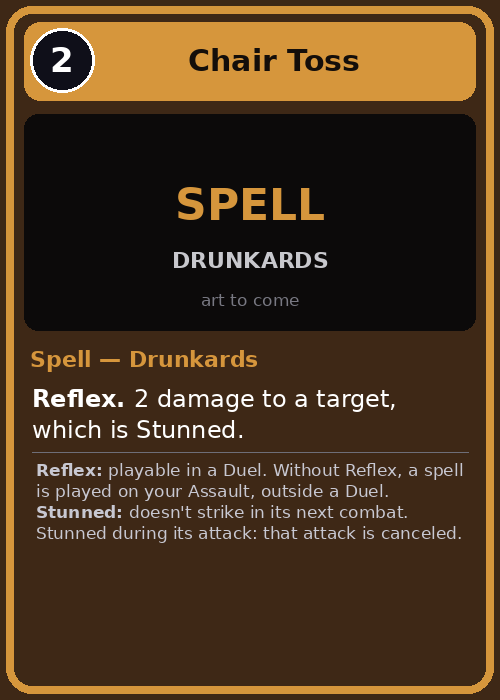
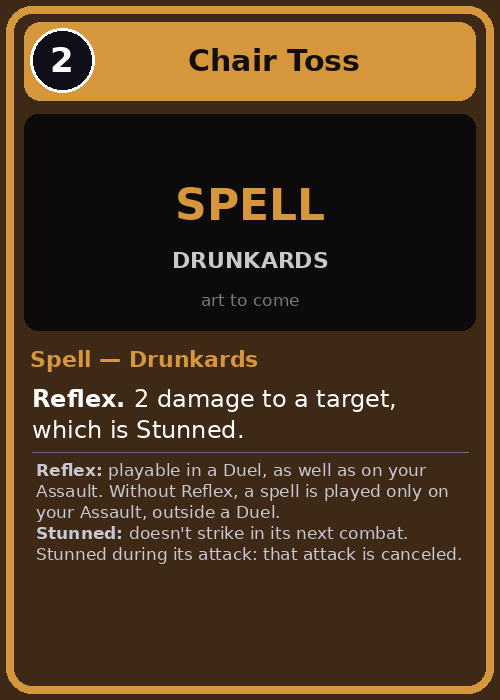
Réflexe : jouable en Duel, en plus de ton Assaut
Claude-Session: https://claude.ai/code/session_012tTQJxUJeP1nyMXvmyxXzL

Changed region(s): [[0.06, 0.66, 0.93, 0.81]]

diff --git a/livret/en/livret.html b/livret/en/livret.html
@@ -234,7 +234,7 @@ a{color:var(--accent)}
   <h3>Spells</h3>
   <ul>
     <li>A spell is cast in a room where you have a <strong>unit</strong>; your Terrain doesn't count. With <span class="kw">Reach</span>: also an adjacent room.</li>
-    <li>Without Reflex, a spell is played during your Assault, outside a Duel. With Reflex, it is played in a Duel, even on your opponent's turn.</li>
+    <li>Without Reflex, a spell is played during your Assault, outside a Duel. With Reflex, it can also be played in a Duel, even on your opponent's turn.</li>
   </ul>
 </section>
 
@@ -356,7 +356,7 @@ a{color:var(--accent)}
     <tr><td>Revealed</td><td class="wrap1">When its Bluff card is flipped.</td></tr>
     <tr><td>Withdrawal</td><td class="wrap1">During your Withdrawal phase.</td></tr>
     <tr><td>Swift</td><td class="wrap1">After its combat during your Assault, changes rooms (outside the limit) and attacks once more.</td></tr>
-    <tr><td>Reflex</td><td class="wrap1">Playable in a Duel.</td></tr>
+    <tr><td>Reflex</td><td class="wrap1">Playable in a Duel, as well as during your Assault.</td></tr>
     <tr><td>Reach</td><td class="wrap1">Attacks a room adjacent to its Expedition. The monster doesn't strike back; the unit is not present in the room (no Brawl, no Stronghold, no Fall back). Respects Protector.</td></tr>
     <tr><td>Protector</td><td class="wrap1">Attacks (units and monsters) against your units or your Terrain in its room must target it. Spells and effects target freely. Protects even when Stunned; in a raid, goes before the Guardian.</td></tr>
     <tr><td>Reinforce</td><td class="wrap1">When the unit is recalled to the Camp during a raid.</td></tr>

diff --git a/livret/livret.html b/livret/livret.html
@@ -234,7 +234,7 @@ a{color:var(--accent)}
   <h3>Les sorts</h3>
   <ul>
     <li>Un sort se lance dans une salle où tu as une <strong>unité</strong> ; ton Terrain ne compte pas. Avec <span class="kw">Portée</span> : aussi une salle voisine.</li>
-    <li>Sans Réflexe, un sort se joue à ton Assaut, hors Duel. Avec Réflexe, il se joue en Duel, même au tour adverse.</li>
+    <li>Sans Réflexe, un sort se joue à ton Assaut, hors Duel. Avec Réflexe, il se joue aussi en Duel, même au tour adverse.</li>
   </ul>
 </section>
 
@@ -356,7 +356,7 @@ a{color:var(--accent)}
     <tr><td>Révélé</td><td class="wrap1">Quand sa carte Bluff est retournée.</td></tr>
     <tr><td>Retrait</td><td class="wrap1">À ta phase de Retrait.</td></tr>
     <tr><td>Rapide</td><td class="wrap1">Après son combat à ton Assaut, change de salle (hors limite) et attaque 1 fois de plus.</td></tr>
-    <tr><td>Réflexe</td><td class="wrap1">Jouable en Duel.</td></tr>
+    <tr><td>Réflexe</td><td class="wrap1">Jouable en Duel, en plus de ton Assaut.</td></tr>
     <tr><td>Portée</td><td class="wrap1">Attaque une salle voisine de son Expédition. Le monstre ne riposte pas ; l'unité n'est pas présente dans la salle (ni Mêlée, ni Fief, ni Repli). Respecte Protecteur.</td></tr>
     <tr><td>Protecteur</td><td class="wrap1">Les attaques (unités et monstres) contre tes unités ou ton Terrain de sa salle doivent le viser. Sorts et effets ciblent librement. Protège même Sonné ; au raid, passe avant le Gardien.</td></tr>
     <tr><td>Renfort</td><td class="wrap1">Quand l'unité est rappelée au Camp pendant un raid.</td></tr>

diff --git a/bible/en/00_glossaire_en.md b/bible/en/00_glossaire_en.md
@@ -1,6 +1,6 @@
 # Guild Rush — Glossary (EN)
 Translation of `bible/00_glossaire.md`, which remains the reference. One line per term.
-<!-- fr_sha1: 92dbda3a6e34713fd691b467cf3d07fb363943c3 (00_glossaire.md traduit) -->
+<!-- fr_sha1: fb2315f35c1ac8e1d537e396355767afde529c51 (00_glossaire.md traduit) -->
 
 ## Structure
 - **Round**: one turn of each player. **Turn**: Rest → Scheme → Assault → Withdrawal.
@@ -43,7 +43,7 @@ Translation of `bible/00_glossaire.md`, which remains the reference. One line pe
 ## Keywords
 - **Arrival**: when played. **Last breath**: on death. **Combat**: during its combat. **Monster kill**: when it deals the blow that kills a monster. **Spellcast**: when you play a Spell card (an Incantation isn't one). **Revealed**: when its Bluff card is turned over. **Withdrawal**: at your Withdrawal phase.
 - **Swift**: after its combat on your Assault, the unit may change room (outside the movement limit) and attack 1 more time.
-- **Reflex**: playable in a Duel. Without Reflex, a spell is played on your Assault, outside a Duel.
+- **Reflex**: playable in a Duel, as well as on your Assault. Without Reflex, a spell is played only on your Assault, outside a Duel.
 - **Reach**: the unit can attack in a room neighboring its Expedition; the monster doesn't strike back; it doesn't count as present in that room (no Brawl, no Stronghold, no Fall back). Respects Protector. On a spell: it can target a room neighboring one of your units.
 - **Reinforce**: triggers when the unit is called back to the Camp during a raid.
 - **Protector**: an attack (unit or monster) against your units or your Terrain in its room must target it. Spells, effects and Ambushes target freely. Protects even when Stunned; in a raid, comes before the Guardian.

diff --git a/livret/en/livret.md b/livret/en/livret.md
@@ -104,7 +104,7 @@ A monster's **killer** is the player who controls the source of the last damage 
 ### Spells
 
 - A spell is cast in a room where you have a **unit** (your Terrain doesn't count). With **Reach**: also an adjacent room.
-- Without **Reflex**, a spell is played during your Assault, outside a Duel. With Reflex, it is played in a Duel, even on your opponent's turn.
+- Without **Reflex**, a spell is played during your Assault, outside a Duel. With Reflex, it can also be played in a Duel, even on your opponent's turn.
 
 ## 7. Damage and healing
 
@@ -204,7 +204,7 @@ Few bodies, lots of spells: strike with Reach and take the killing blows. **Arca
 | **Revealed** | When its Bluff card is flipped. |
 | **Withdrawal** | During your Withdrawal phase. |
 | **Swift** | After its combat during your Assault, changes rooms (outside the limit) and attacks once more. |
-| **Reflex** | Playable in a Duel. |
+| **Reflex** | Playable in a Duel, as well as during your Assault. |
 | **Reach** | Attacks a room adjacent to its Expedition. The monster doesn't strike back; the unit is not present in the room (no Brawl, no Stronghold, no Fall back). Respects Protector. |
 | **Protector** | Attacks (units and monsters) against your units or your Terrain in its room must target it. Spells and effects target freely. Protects even when Stunned; in a raid, goes before the Guardian. |
 | **Reinforce** | When the unit is recalled to the Camp during a raid. |

diff --git a/bible/00_glossaire.md b/bible/00_glossaire.md
@@ -42,7 +42,7 @@ Une ligne par terme. Si un terme est ici, il n'est jamais réexpliqué ailleurs.
 ## Mots-clés
 - **Arrivée** : à la pose. **Dernier souffle** : à la mort. **Combat** : pendant son combat. **Tue un monstre** : quand elle porte le coup qui tue un monstre. **Sort lancé** : quand tu joues une carte Sort (une Incantation n'en est pas une). **Révélé** : quand sa carte Bluff est retournée. **Retrait** : à ta phase de Retrait.
 - **Rapide** : après son combat à ton Assaut, l'unité peut changer de salle (hors limite de déplacement) et attaquer 1 fois de plus.
-- **Réflexe** : jouable en Duel. Sans Réflexe, un sort se joue à ton Assaut, hors Duel.
+- **Réflexe** : jouable en Duel, en plus de ton Assaut. Sans Réflexe, un sort se joue seulement à ton Assaut, hors Duel.
 - **Portée** : l'unité peut attaquer dans une salle voisine de son Expédition ; le monstre ne riposte pas ; elle ne compte pas comme présente dans cette salle (pas de Mêlée, pas de Fief, pas de Repli). Respecte Protecteur. Sur un sort : il peut viser une salle voisine d'une de tes unités.
 - **Renfort** : se déclenche quand l'unité est rappelée au Camp pendant un raid.
 - **Protecteur** : une attaque (unité ou monstre) contre tes unités ou ton Terrain de sa salle doit le viser. Sorts, effets et Embuscades ciblent librement. Protège même Sonné ; au raid, passe avant le Gardien.

diff --git a/bible/04_decisions.md b/bible/04_decisions.md
@@ -90,6 +90,7 @@
 - [OK] Premières cartes Éclaireur : Renard des fourrés, Pisteuse des ronces (Druides), Gamin des ruelles, Contrebandier (Ivrognes).
 
 ## Combat (2026-10-16)
+- [OK] Un sort Réflexe se lance aussi à ton Assaut, hors Duel, comme un sort normal ; il peut en plus se jouer en Duel.
 - [OK] Ennemi = unité, Gardien ou Terrain adverse ; un monstre n'est jamais un ennemi. Cible = tout, monstres compris. Les effets de zone ne touchent pas les monstres.
 - [OK] Un sort ne se lance que dans une salle où tu as une unité (Portée : ou une salle voisine). Le Terrain ne compte pas. Le tueur est le contrôleur du dernier dégât.
 - [OK] Mêlée : le coup de grâce prend tous les trésors et la relique.
